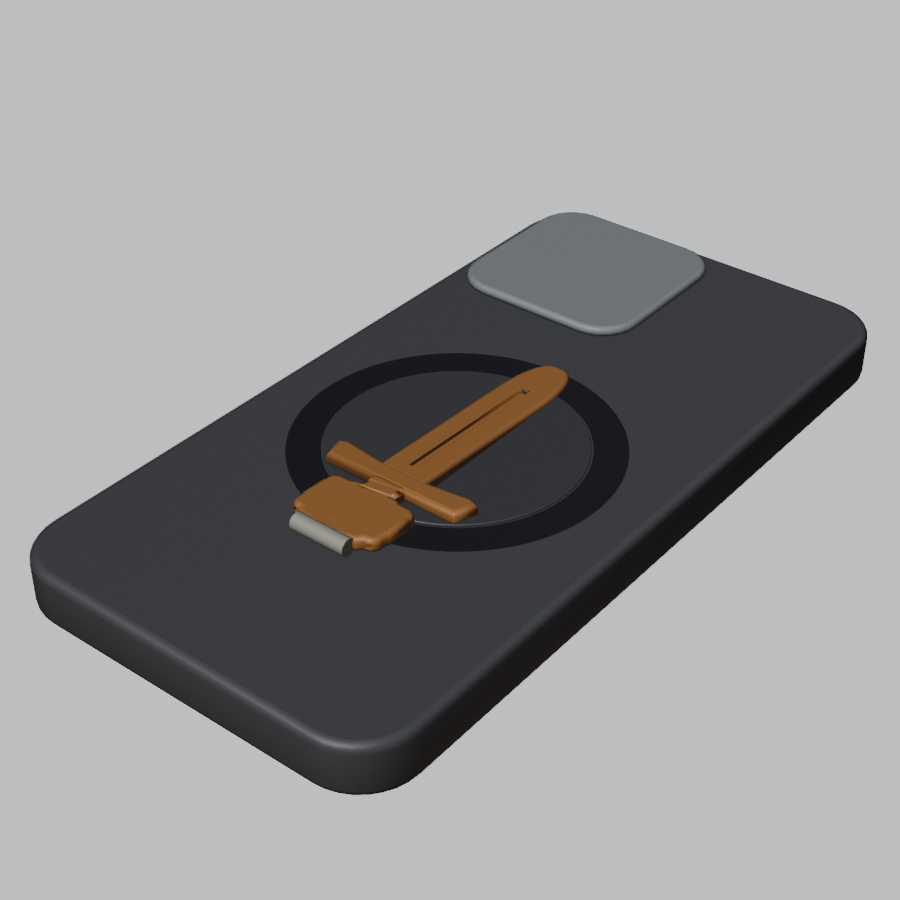
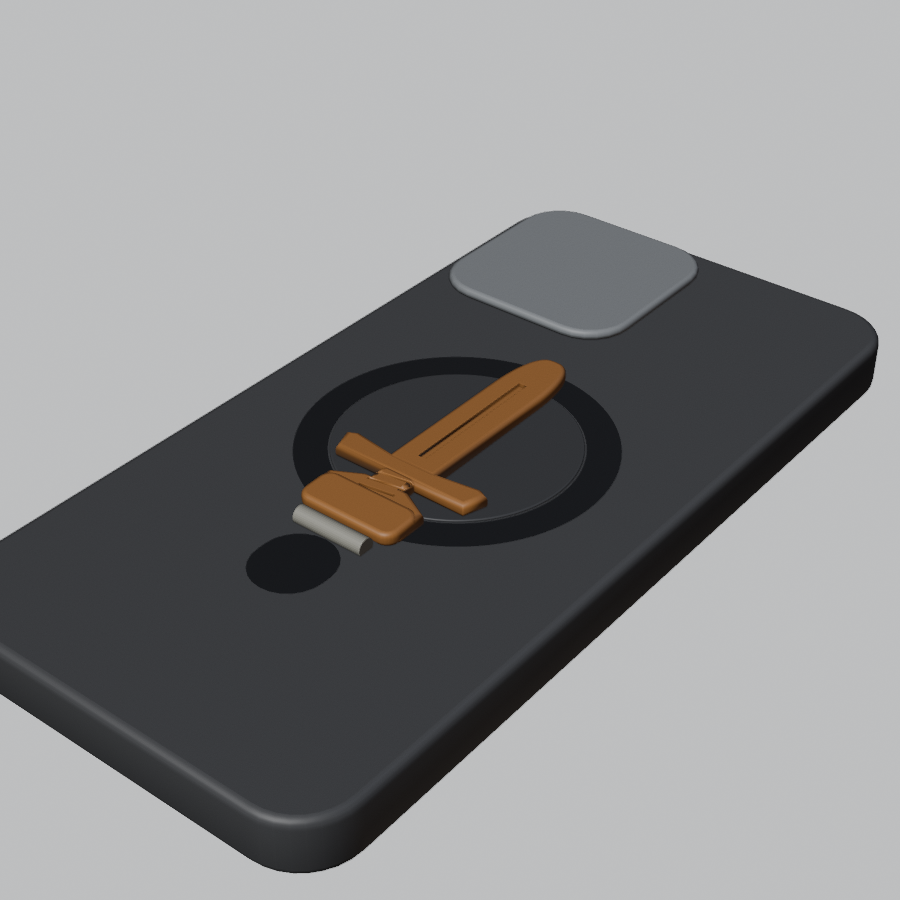
feat(kickstand): photo-scaled dims, top-cap mount, real preload, fit coupon
Scale from iPhone 12 Pro Max + case (recess matches the 55 mm MagSafe ring).
Mount is now a cap glued on the leaf's top face with a pocket over the broken
ring stubs. Geometry behind the hinge axis is clipped (it would swing into the
case). Preload is a real 1.5 deg tilt of the plate relative to the cap. Adds a
three-width fit coupon for sizing the leaf pocket without calipers.

Claude-Session: https://claude.ai/code/session_01P6zzMLwUiwWwHxq79W1bcW

diff --git a/phone-kickstand/generate.py b/phone-kickstand/generate.py
@@ -5,12 +5,14 @@ exports an STL (mm), and renders preview views against a placeholder case.
 
     /Applications/Blender.app/Contents/MacOS/Blender -b --python generate.py -- [--no-render]
 
-ALL DIMENSIONS BELOW ARE PLACEHOLDERS estimated from one photo. Measure the
-real case and replace the CASE / LEAF blocks before printing anything.
+Dimensions are ESTIMATED FROM PHOTOS (no calipers), scaled off an iPhone 12 Pro Max
+(160.8 x 78.1 mm) in a leather case; the recess matching the ~55 mm MagSafe ring
+cross-checks the scale. Print the fit coupon before trusting LEAF_* numbers.
 
-Frame (part-local, mm): origin on the hinge axis, +Y runs along the part when
-it is folded shut against the case, Z = away from the case back. The case back
-surface is Z = 0 in the phone frame.
+Frame (part-local build coords, mm): +Y runs along the part when it is folded
+shut, Z = away from the case. Z = 0 is the leaf's top face (about flush with the
+leather), the hinge axis is at (Y=0, Z=HINGE_Z). Phone frame: case back surface
+at Z = 0, phone centre at the origin.
 """
 
 import math
@@ -24,22 +26,25 @@ from mathutils import Vector, Matrix
 OUT = Path(__file__).resolve().parent
 RENDER_DIR = OUT / "renders"
 
-# ---- CASE (placeholder) ---------------------------------------------------
-PHONE_W, PHONE_H, PHONE_T = 76.0, 150.0, 10.0
-RING_CY = -8.0            # ring recess centre, phone Y (0 = phone centre)
-RING_OD, RING_ID = 58.0, 46.0
-HINGE_BELOW_RING = 5.0    # hinge axis sits this far below the recess bottom edge
-HINGE_Z = 1.6             # hinge axis height above the case back
-KNUCKLE_D, KNUCKLE_L = 3.2, 11.0
+# ---- CASE (from photos, 2026-09-30) ----------------------------------------
+PHONE_W, PHONE_H, PHONE_T = 81.5, 164.5, 10.5
+RING_CY = 0.0             # ring recess centre, phone Y (0 = phone centre); hinge ~51 mm above case bottom
+RING_OD, RING_ID = 55.5, 43.7
+HINGE_BELOW_RING = 3.85   # hinge axis below the recess's outer edge (31.6 mm below ring centre)
+HINGE_Z = 0.85            # hinge axis above the leaf top (flat hinge: leaf tangent to knuckle bottom)
+KNUCKLE_D, KNUCKLE_L = 3.3, 14.0
 
-# ---- LEAF (placeholder) -- the moving hinge leaf the part clamps onto -----
-LEAF_W, LEAF_L, LEAF_T = 16.0, 10.0, 0.8
-RIVET_D, RIVET_H = 3.0, 0.6
+# ---- LEAF (from photos) -- the moving hinge leaf the part caps ------------
+LEAF_W, LEAF_L = 14.0, 9.2    # width; reach from the hinge axis to the leaf tip
+STUB_W, STUB_L = 17.5, 3.5    # broken ring stubs at the leaf tip: overall width, length along Y
+POCKET_D = 0.5                # underside pocket over leaf + stubs (glue reservoir, locates the cap)
+KNUCKLE_CLEAR = KNUCKLE_D / 2 + 0.5   # nothing nearer the axis than this, or it hits the knuckle
 
 # ---- PART ------------------------------------------------------------------
 T = 2.6                   # plate thickness
 EDGE_R = 0.9              # rounded edge radius (snag-proofing)
-PRELOAD_DEG = 2.0         # built-in angle that presses the free end into the case
+PRELOAD_DEG = 1.5         # plate tilted toward the case relative to the leaf: the tip lands
+                          # first and the plate flexes flat as it closes, so no gap at the tip
 OPEN_DEG = 135.0          # the hinge's full-open stop
 
 HINGE_Y = RING_CY - RING_OD / 2 - HINGE_BELOW_RING
@@ -169,20 +174,17 @@ def groove(pts, w=0.7, depth=0.6):
 
 # ------------------------------------------------------------ hinge mount
 def mount():
-    """Sleeve over the hinge leaf. Pocket keyed to the rivet heads; glue as backup.
-    Leaf starts just past the knuckle radius; sleeve wraps it top and bottom."""
-    y0 = KNUCKLE_D / 2 + 0.4
-    wall = 1.0
-    outer = slab("mount", [rounded_rect(0, y0 + (LEAF_L + wall) / 2, LEAF_W + 2 * wall, LEAF_L + wall, 2.0)],
-                 0, T, EDGE_R)
-    # leaf slot, open toward the knuckle, centred on the leaf plane (Z = HINGE_Z - 0 offset handled at assembly)
-    slot = box("slot", 0, y0 + LEAF_L / 2 - 0.5, T / 2, LEAF_W + 0.3, LEAF_L + 1.0, LEAF_T + 0.25)
-    boolean(outer, slot, 'DIFFERENCE')
-    for rx in (-LEAF_W / 2 + 3, 0, LEAF_W / 2 - 3):
-        c = cyl("rivet", RIVET_D / 2 + 0.2, RIVET_H * 2 + LEAF_T + 0.3,
-                (rx, y0 + LEAF_L * 0.6, T / 2))
-        boolean(outer, c, 'DIFFERENCE')
-    return outer
+    """Top cap glued onto the leaf's black face (rivet heads are on the case side when shut).
+    Covers the broken ring stubs; the underside pocket is a glue reservoir that also locates it."""
+    y0, y1 = KNUCKLE_CLEAR, LEAF_L + 1.2
+    cap = slab("cap", [rounded_rect(0, (y0 + y1) / 2, STUB_W + 2.4, y1 - y0, 2.5)], 0, T, EDGE_R)
+    pocket = slab("pocket", [rounded_rect(0, (y0 - 1 + LEAF_L + 0.3) / 2, LEAF_W + 0.4, LEAF_L + 1.3 - y0, 0.8)],
+                  -1, POCKET_D, 0)
+    boolean(cap, pocket, 'DIFFERENCE')
+    ears = slab("ears", [rounded_rect(0, LEAF_L - STUB_L / 2 + 0.3, STUB_W + 0.4, STUB_L + 0.6, 0.8)],
+                -1, POCKET_D, 0)
+    boolean(cap, ears, 'DIFFERENCE')
+    return cap
 
 
 def rounded_rect(cx, cy, w, h, r, n=6):
@@ -229,6 +231,11 @@ def wing_outlines(end_extra=0.0, dr=0.0):
     loops, tips = [], []
     for i, (a0, a1, r1) in enumerate(WING_FEATHERS):
         last = i == len(WING_FEATHERS) - 1
+        # start far enough round that the feather's outer edge stays clear of the knuckle
+        lim = (KNUCKLE_CLEAR + 1.0 - RC) / r1
+        if lim > -1:
+            a0 = max(a0, math.degrees(math.asin(lim)) + 4)
+        a1 = max(a1, a0 + 30)     # a clamped start must never pass the tip (inside-out polygon)
         # stagger radii so no two feathers share a surface (exact boolean chokes on tangent rounds)
         pts, tipc = feather(a0, a1 + (end_extra if last else 0), WING_R_IN - 0.45 * i + 0.3 * (len(WING_FEATHERS) - 1) + dr,
                             r1 + dr, tip=16 if last else 13)
@@ -268,7 +275,8 @@ def wing_body(name, mirror=False, end_extra=0.0, dr=0.0):
 
 def root_block():
     """Shoulder that blends the mount into the design."""
-    return slab("root", [rounded_rect(0, 8.0, LEAF_W + 2.4, 12.0, 3.0)], 0, T, EDGE_R)
+    y0, y1 = KNUCKLE_CLEAR, 14.0
+    return slab("root", [rounded_rect(0, (y0 + y1) / 2, STUB_W + 2.4, y1 - y0, 3.0)], 0, T, EDGE_R)
 
 
 def concept_wing():
@@ -318,8 +326,9 @@ def concept_sword():
     body = slab("blade", [blade], 0, T, EDGE_R)
     boolean(body, slab("guard", [guard], 0, T, EDGE_R), 'UNION')
     boolean(body, slab("grip", [grip], 0, T, EDGE_R), 'UNION')
-    pommel = [(0, -0.5), (6, 1.0), (LEAF_W / 2 + 1.2, 5.5), (LEAF_W / 2 + 1.2, 10.5), (4.5, 13.5),
-              (-4.5, 13.5), (-LEAF_W / 2 - 1.2, 10.5), (-LEAF_W / 2 - 1.2, 5.5), (-6, 1.0)]
+    c0 = KNUCKLE_CLEAR
+    pommel = [(5, c0), (STUB_W / 2 + 1.2, c0 + 2.5), (STUB_W / 2 + 1.2, 10.5), (4.5, 13.5),
+              (-4.5, 13.5), (-STUB_W / 2 - 1.2, 10.5), (-STUB_W / 2 - 1.2, c0 + 2.5), (-5, c0)]
     boolean(body, slab("pommel", [pommel], 0, T, EDGE_R), 'UNION')
     boolean(body, cyl("gem", 1.6, 1.2, (0, 4.2, T)), 'DIFFERENCE')
     boolean(body, groove([(0, guard_y + 6), (0, tip_y - 11)], w=1.6, depth=0.7), 'DIFFERENCE')
@@ -338,9 +347,25 @@ CONCEPTS = {
 # ------------------------------------------------------------ assembly
 def build_part(fn):
     body = fn()
+    # nothing may sit behind/over the knuckle: it would swing into the case on opening
+    boolean(body, box("clip", 0, KNUCKLE_CLEAR - 50, T / 2, 300, 100, 20), 'DIFFERENCE')
+    # preload: tilt the decorative plate toward the case about the hinge axis, relative to the cap
+    body.matrix_world = (Matrix.Translation((0, 0, HINGE_Z)) @ Matrix.Rotation(math.radians(-PRELOAD_DEG), 4, 'X')
+                         @ Matrix.Translation((0, 0, -HINGE_Z)))
+    bpy.context.view_layer.objects.active = body
+    for o in bpy.context.selected_objects:
+        o.select_set(False)
+    body.select_set(True)
+    bpy.ops.object.transform_apply(location=True, rotation=True, scale=True)
     boolean(body, mount(), 'UNION')
     body.name = "part"
     return body
+
+
+def part_matrix(open_deg):
+    """Part build coords -> phone frame. open_deg = 0: cap flat on the leaf, hinge flat."""
+    return (Matrix.Translation((0, HINGE_Y, HINGE_Z)) @ Matrix.Rotation(math.radians(open_deg), 4, 'X')
+            @ Matrix.Translation((0, 0, -HINGE_Z)))
 
 
 def nonmanifold_count(ob):
@@ -371,18 +396,19 @@ def case_model():
     objs.append((recess, (0.03, 0.03, 0.035)))
     disc = slab("disc", [circle(0, RING_CY, RING_ID / 2 - 0.3, 96)], -0.2, 0.35, 0.3)
     objs.append((disc, (0.12, 0.12, 0.13)))
-    bump = slab("bump", [rounded_rect(-PHONE_W / 2 + 22, PHONE_H / 2 - 22, 38, 38, 8)], 0, 2.0, 1.0)
+    bump = slab("bump", [rounded_rect(-PHONE_W / 2 + 23, PHONE_H / 2 - 23, 40, 40, 9)], 0, 2.0, 1.0)
     objs.append((bump, (0.55, 0.57, 0.6)))
+    tear = slab("tear", [rounded_rect(0, HINGE_Y - 1.6 - 7.5, 13.6, 15, 6.7)], -0.8, 0.02, 0)
+    objs.append((tear, (0.03, 0.03, 0.035)))
     k = cyl("knuckle", KNUCKLE_D / 2, KNUCKLE_L, (0, HINGE_Y, HINGE_Z), rot=(0, math.pi / 2, 0))
     objs.append((k, (0.75, 0.72, 0.62)))
     return objs
 
 
-def place_part(part, open_deg, preload=True):
-    """Put the part on the hinge in the phone frame. open_deg=0 is folded shut."""
-    ang = math.radians(open_deg - (PRELOAD_DEG if preload and open_deg == 0 else 0))
-    part.matrix_world = (Matrix.Translation((0, HINGE_Y, HINGE_Z)) @ Matrix.Rotation(ang, 4, 'X')
-                         @ Matrix.Translation((0, 0, -T / 2)))
+def place_part(part, open_deg):
+    """Put the part on the hinge in the phone frame. Shut = open by PRELOAD_DEG, which is where
+    the tilted plate's tip lands on the leather (before the plate is flexed flat)."""
+    part.matrix_world = part_matrix(open_deg if open_deg else PRELOAD_DEG)
 
 
 def color(ob, rgb):
@@ -452,8 +478,7 @@ def scene_closed(name, fn):
 def stand_pose(part_local, open_deg):
     """Portrait stand: phone rests on its bottom-back edge and the part's lowest point.
     Returns (phi, lean_from_vertical) or None if the phone would tip onto its face."""
-    M = (Matrix.Translation((0, HINGE_Y, HINGE_Z)) @ Matrix.Rotation(math.radians(open_deg), 4, 'X')
-         @ Matrix.Translation((0, 0, -T / 2)))
+    M = part_matrix(open_deg)
     pv = [M @ v for v in part_local]
     edge = Vector((0, -PHONE_H / 2, -PHONE_T))
     best = None
@@ -507,11 +532,37 @@ def scene_stand(name, fn, lean_target=20.0):
     return od, lean
 
 
+def fit_coupon(path, widths=(13.4, 14.0, 14.6)):
+    """Three bare caps with different pocket widths, 1/2/3 notches on the tip edge. Try each on
+    the leaf (no calipers needed); set LEAF_W to the one that seats snugly over leaf + stubs."""
+    global LEAF_W
+    keep = LEAF_W
+    caps = []
+    for i, w in enumerate(widths):
+        LEAF_W = w
+        c = mount()
+        tip = LEAF_L + 1.2
+        for k in range(i + 1):
+            boolean(c, box("n", (k - i / 2) * 2.2, tip, T, 1.0, 1.6, 2.0), 'DIFFERENCE')
+        c.location.x = (i - 1) * (STUB_W + 6)
+        caps.append(c)
+    LEAF_W = keep
+    for o in bpy.context.selected_objects:
+        o.select_set(False)
+    for c in caps:
+        c.select_set(True)
+    bpy.context.view_layer.objects.active = caps[0]
+    bpy.ops.object.join()
+    export_stl(caps[0], path)
+
+
 def main():
     args = sys.argv[sys.argv.index("--") + 1:] if "--" in sys.argv else []
     do_render = "--no-render" not in args
     RENDER_DIR.mkdir(exist_ok=True)
     report = []
+    clear()
+    fit_coupon(OUT / "fit_coupon.stl")
     for name, fn in CONCEPTS.items():
         clear()
         part = build_part(fn)
